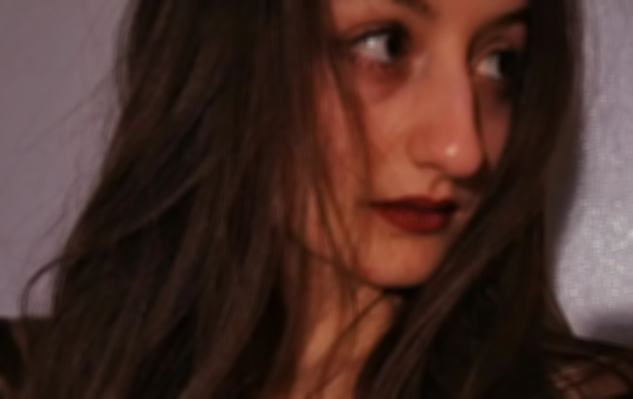
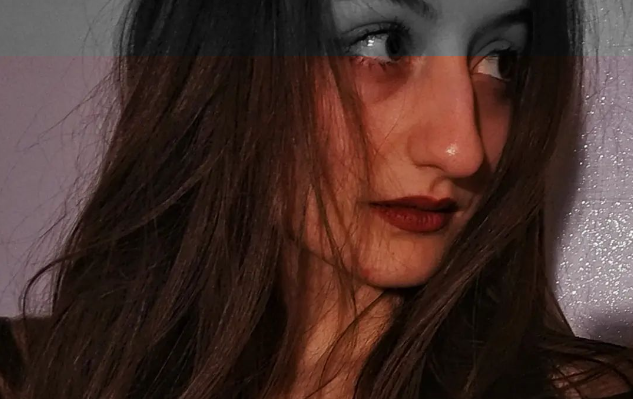
introducing multithread tests

diff --git a/imgfunc_miltitherad.py b/imgfunc_miltitherad.py
@@ -1,0 +1,61 @@
+import multiprocessing
+from threading import Thread
+import time
+
+corecount = multiprocessing.cpu_count()
+
+def black_white(image):
+    """
+    Turns the image into a black and white one
+    """
+
+    to_divide = corecount
+    processing_lines = len(image)
+    lasting_lines = processing_lines%to_divide
+    thread_handle = int((processing_lines-lasting_lines)/to_divide)
+
+    
+
+    print("rows: ")
+    print(processing_lines)
+    print("lines per thread: ")
+    print(thread_handle)
+    print("lasting lines to process: ")
+    print(lasting_lines)
+
+
+    
+
+    i = 0
+    while (i < processing_lines):
+        if (i == 0):
+            Thread(target=black_white_in, args=(image, i, (i + thread_handle + lasting_lines))).start() 
+            i += lasting_lines    
+        Thread(target=black_white_in, args=(image, i, (i + thread_handle))).start()
+        i += thread_handle
+    
+  
+
+
+    return image
+
+
+
+
+def black_white_in(image, start, end):
+    row = start
+    while (row<end):
+        column = 0
+        while (column<len(image[row])):
+            i = 0
+            tot = 0
+            while(i<3): 
+                tot += image[row][column][i]
+                i += 1
+            average = tot/3
+            i=0
+            while (i<3):
+                image[row][column][i] = average
+                i+=1 
+            column += 1
+        row += 1         

diff --git a/test.py b/test.py
@@ -2,27 +2,30 @@ import skimage
 import math
 from skimage import data, io
 
-from imgfunc_singletherad import *
+from imgfunc_miltitherad import *
 
 # matplotlib usata per mostrare le immagini
 import matplotlib.pyplot as plt
 import matplotlib
 
-image = io.imread("lucrezia.png") # legge un'immagine
+image = io.imread("thumb-1920-1251351.jpg") # legge un'immagine
 """
     Restituisce una rappresentazione dell'immagine sotto forma 
     di array bidimesnionale, il cui valore di una singola cella 
     è un array contenente 3 valori (R G B)
 """
 
+renderimg = black_white(image) 
+print("execution time:")
+print(duration)
 
-renderimg = blur(image, 3) 
+
 plt.imshow(renderimg)
 print("pixel processed: ")
 print(len(image)*len(image[0]))
 
 
-io.imsave("out.png", renderimg )
+# io.imsave("out.png", renderimg )
 
 plt.show()
 

diff --git a/imgfunc_singletherad.py b/imgfunc_singletherad.py
@@ -1,10 +1,13 @@
 import sys
 from numpy import *
+import time
 
 def black_white(image):
     """
     Turns the image into a black and white one
     """
+    start = round(time.time()*1000)
+
     row = 0
     while (row<len(image)):
         column = 0
@@ -20,7 +23,12 @@ def black_white(image):
                 image[row][column][i] = average
                 i+=1 
             column += 1
-        row += 1         
+        row += 1   
+
+    duration = round(time.time()*1000) - start
+
+    print("execution time:")
+    print(duration)      
     return image
 
 def negative(image):
